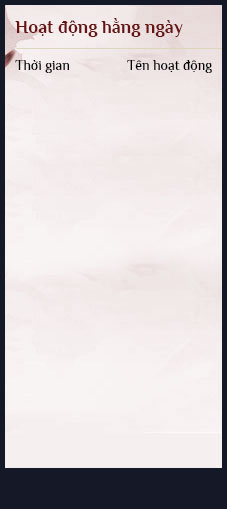
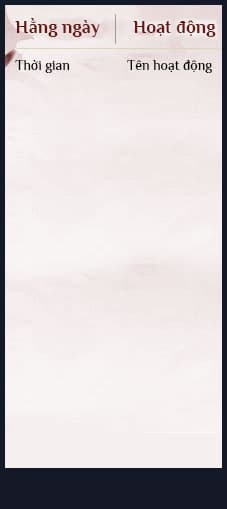
#97 Điều Chỉnh Bảng Hoạt Động - Trang Chủ

diff --git a/resources/sass/main.scss b/resources/sass/main.scss
@@ -131,7 +131,7 @@ a {
             -webkit-transform-style: preserve-3d;
             -o-transform-style: preserve-3d;
             -ms-transform-style: preserve-3d;
-            
+
           }
           @-webkit-keyframes myAnimate {
             from {
@@ -266,25 +266,52 @@ a {
         background: url('../images/bg-act-daily.jpg') no-repeat;
         padding: 90px 0px 0px 15px;
         font-family: 'Roboto', sans-serif;
+        position: relative;
+
+        .activity-tabs {
+          a {
+            display: block;
+            position: absolute;
+            top: 13px;
+            width: 90px;
+            height: 30px;
+            text-indent: -9999px;
+            overflow: hidden;
+
+            &.link-tab-activity {
+              left: 120px;
+              width: 100px;
+            }
+          }
+        }
+
         table {
           font-size: 14px;
-          height: 385px;
-          .td-time {
-            color: #ff191e;
-            width: 60px;
+
+          &.active {
+            display: table !important;
           }
-          .td-content {
-            width: 140px;
-            a {
-              float: right;
-              color: #2444be;
-              line-height: 8px;
+
+          td {
+            height: 35px;
+            &.td-time {
+              color: #ff191e;
+              width: 60px;
+            }
+            &.td-content {
+              width: 140px;
+              a {
+                float: right;
+                color: #2444be;
+                line-height: 8px;
+              }
             }
           }
         }
         .act-daily-view-more {
           width: 205px;
-          margin-top: 5px;
+          position: absolute;
+          bottom: 15px;
           a {
             margin-right: 10px;
             float: right;
@@ -731,7 +758,7 @@ a {
       }
     }
     li:last-child {
-      background: none;      
+      background: none;
       font-size: 15px;
     }
   }
@@ -1195,7 +1222,7 @@ a {
               background: url('../images/lantern.png') no-repeat;
             }
           }
-        }        
+        }
         .register-login {
           width: 100%;
           .register-btn {

diff --git a/resources/js/main.js b/resources/js/main.js
@@ -11,6 +11,15 @@ $(document).ready(function(){
         $("."+tab_id+"-content").addClass('active');
         $('.menu-news .news-more').attr('href',link)
     });
+
+    $('.activity-tabs a').click(function(){
+        let tab = $(this).data('tab');
+        $('.activity-tabs a').removeClass('active');
+        $(this).addClass('active');
+        $(".activity-tab-container").removeClass('active');
+        $(".activity-tab-container." + tab).addClass('active');
+    });
+
     $('.my-slider').slick({
         arrows: false,
         fade: false,

diff --git a/resources/sass/common.scss b/resources/sass/common.scss
@@ -46,3 +46,7 @@
 .mt15 {
   margin-top: 15px;
 }
+
+.hide {
+  display: none;
+}

diff --git a/resources/views/partials/sidebar/activity.blade.php b/resources/views/partials/sidebar/activity.blade.php
@@ -1,5 +1,9 @@
 <div class="act-daily">
-    <table>
+    <div class="activity-tabs">
+        <a href="javascript:;" class="link-tab-daily" data-tab="tab-daily">Hằng ngày</a>
+        <a href="javascript:;" class="link-tab-activity" data-tab="tab-activity">Hoạt động</a>
+    </div>
+    <table class="activity-tab-container hide active tab-daily">
         <tr>
             <td class="td-time">Cả ngày</td>
             <td class="td-content"><a href="{{ route('front.details.post', ['huong-dan','phong-l-ng-do'])}}">Phong Lăng Độ</a></td>
@@ -19,7 +23,7 @@
         <tr>
             <td class="td-time">15:00</td>
             <td class="td-content"><a href="{{ route('front.details.post', ['huong-dan','chien-tr-ong-tong-kim'])}}">Chiến trường tống kim</a></td>
-        </tr>   
+        </tr>
         <tr>
             <td class="td-time">19:00</td>
             <td class="td-content"><a href="{{ route('front.details.post', ['huong-dan','hai-qua-huy-hoang'])}}">Quả huy hoàng</a></td>
@@ -39,6 +43,24 @@
         <tr>
             <td class="td-time">22:30</td>
             <td class="td-content"><a href="{{ route('front.details.post', ['su-kien','boss-dai-hoang-kim'])}}">Boss Đại Hoàng Kim</a></td>
+        </tr>
+    </table>
+    <table class="activity-tab-container hide tab-activity">
+        <tr>
+            <td class="td-time">Thứ 3, 6</td>
+            <td class="td-content"><a href="{{ route('front.details.post', ['huong-dan','tinh-n-ng-th-ng-nhan-tay-vuc'])}}">Thương nhân Tây Vực</a></td>
+        </tr>
+        <tr>
+            <td class="td-time">Thứ 3, 4</td>
+            <td class="td-content"><a href="{{ route('front.details.post', ['huong-dan','trung-nguyen-tieu-cuc-tinh-n-ng-van-tieu'])}}">Vận tiêu</a></td>
+        </tr>
+        <tr>
+            <td class="td-time">Thứ 5</td>
+            <td class="td-content"><a href="{{ route('front.details.post', ['huong-dan','tinh-n-ng-loi-dai-cong-thanh'])}}">Lôi đài - Công thành</a></td>
+        </tr>
+        <tr>
+            <td class="td-time">Thứ 6</td>
+            <td class="td-content"><a href="{{ route('front.details.post', ['huong-dan','tinh-n-ng-cong-thanh-chien-tam-tru'])}}">Công thành chiến</a></td>
         </tr>
     </table>
     <div class="act-daily-view-more"><a href="{{ route('front.category', ['huong-dan']) }}">Xem thêm >></a></div>
